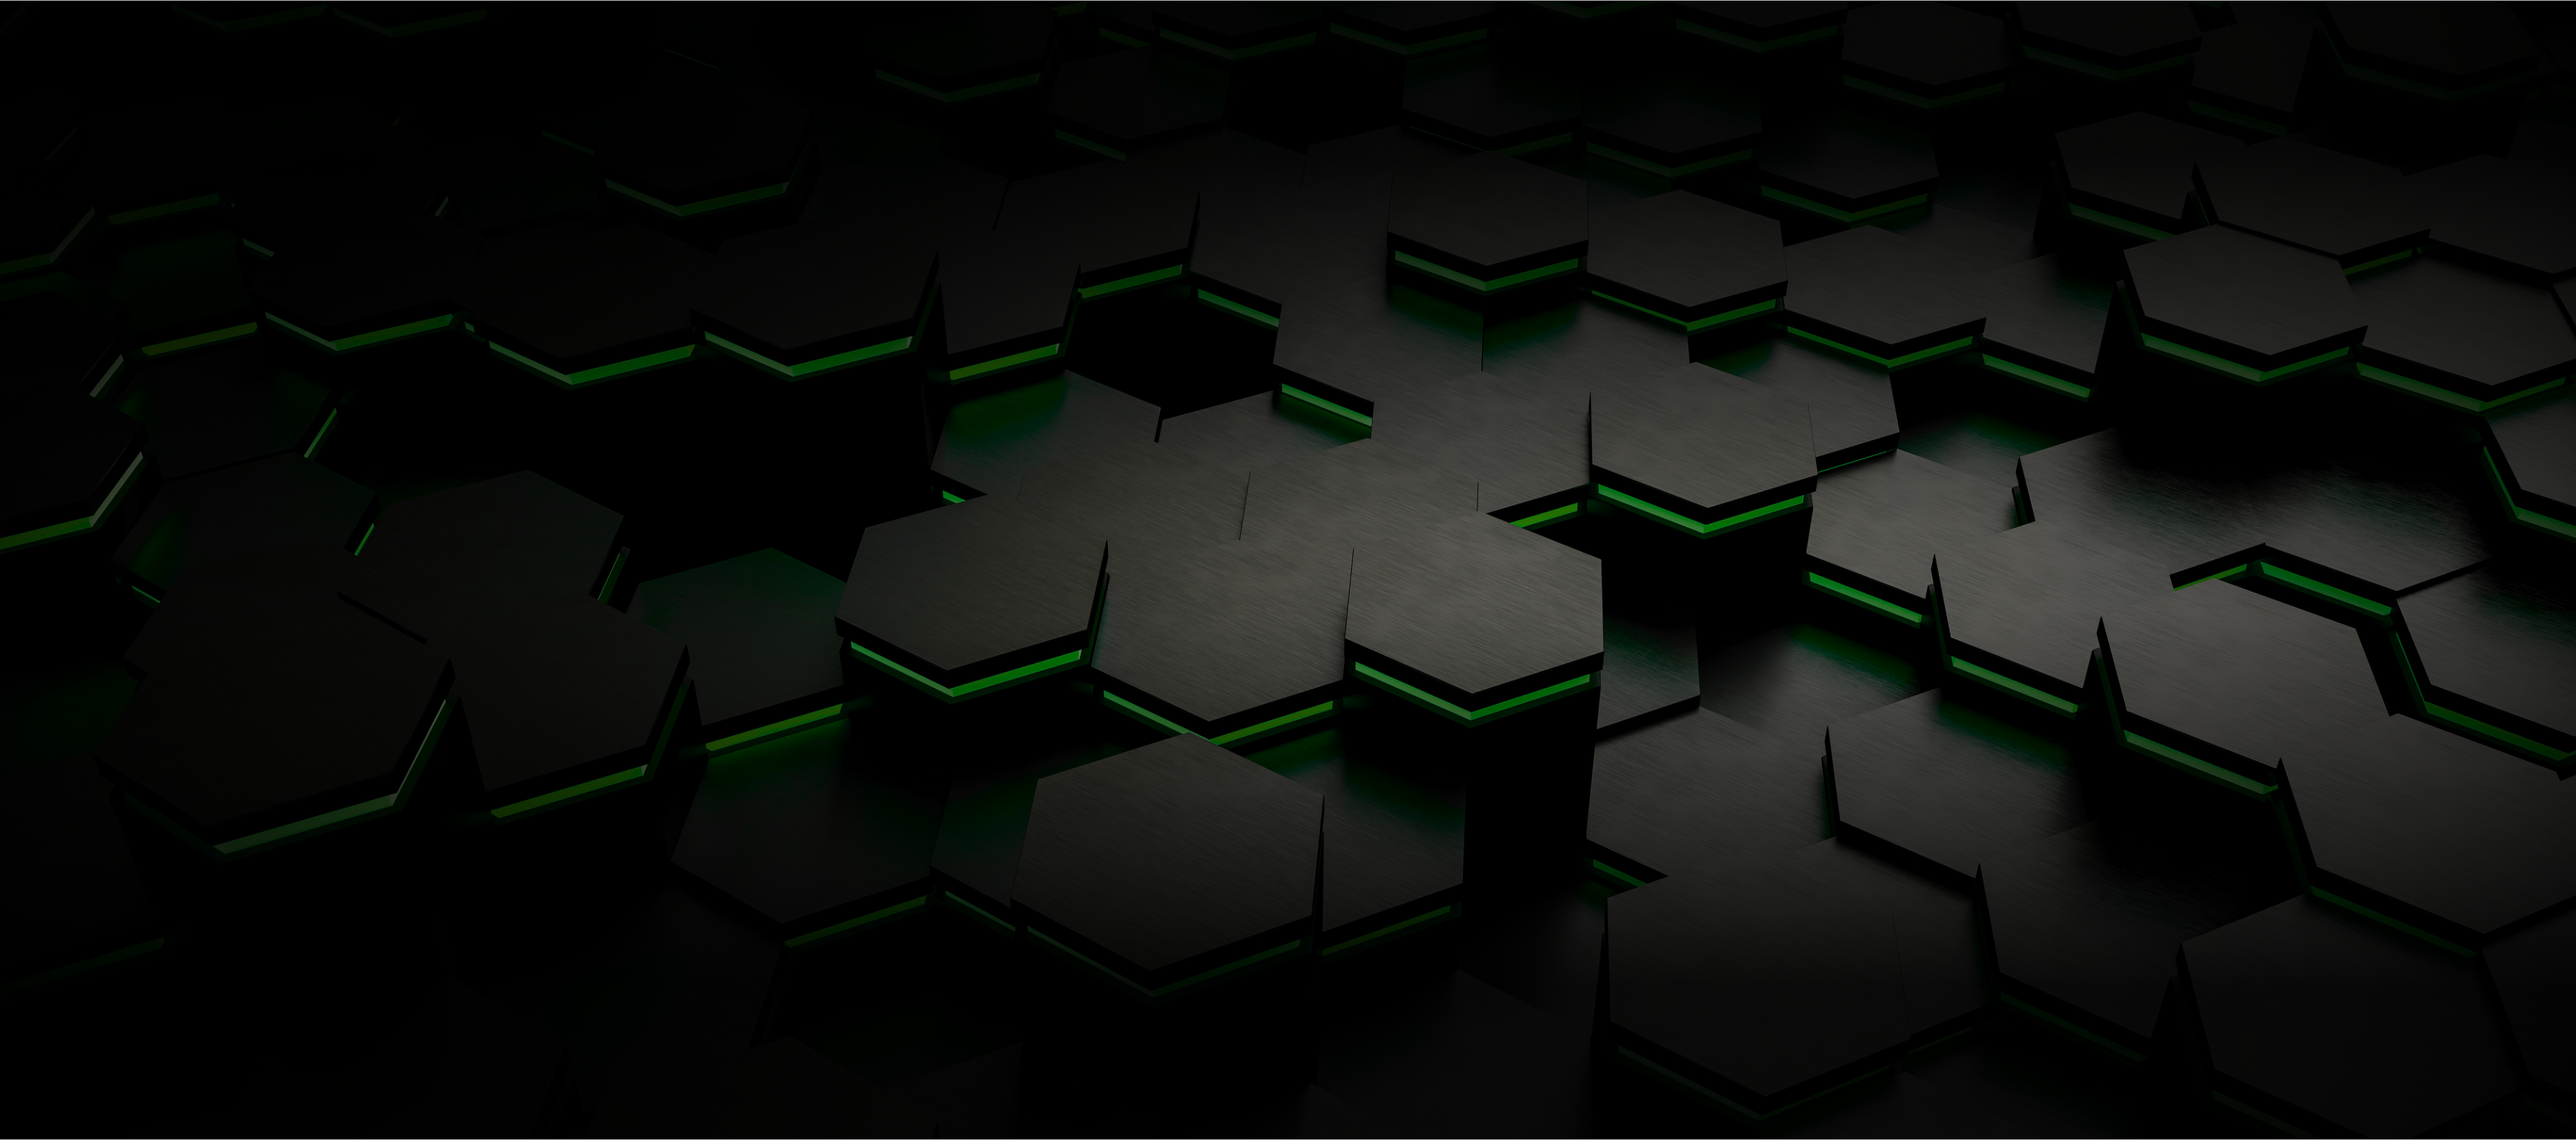
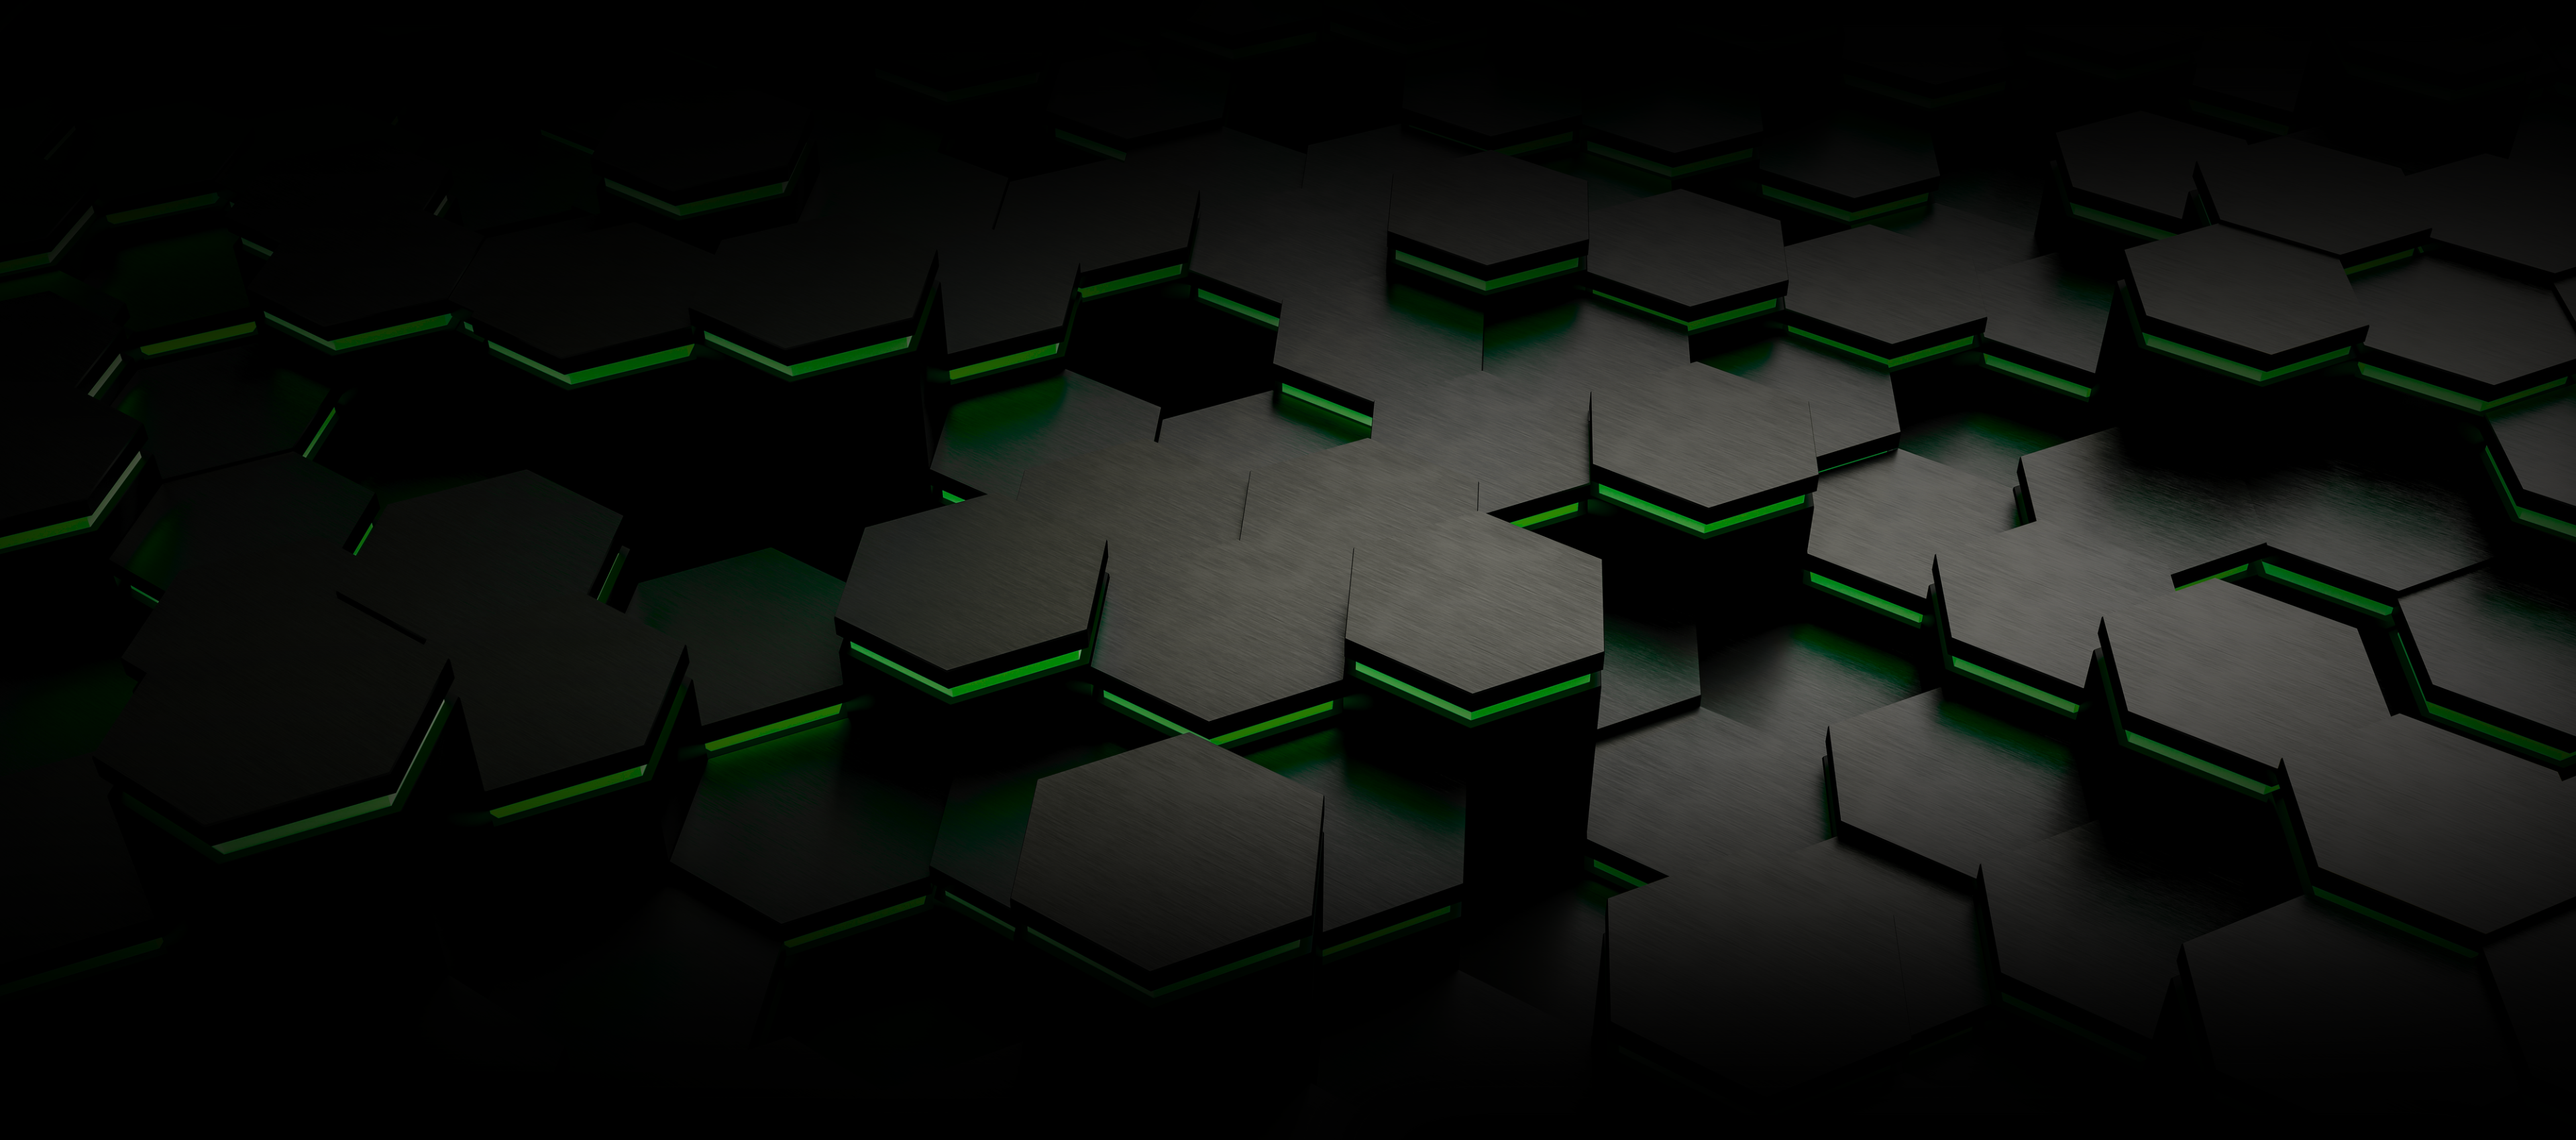
all backgrounds present, not in correct order carousels are all correct. Landing Reasons is the same as the features section it was removed the text was added to the testimonials header.

diff --git a/HEM-FrontEnd/src/LandingTestimonials.jsx b/HEM-FrontEnd/src/LandingTestimonials.jsx
@@ -2,18 +2,31 @@ import TestimonialCarousel from "./TestimonialCarousel";
 
 export default function LandingTestimonials() {
   return (
-    <div className="bg-TestimonialBackground bg-no-repeat bg-cover bg-center">
-      <div className="">
-        <div className="flex justify-center">
-          <TestimonialCarousel />
-        </div>
-        <div className="block">
-          Don&apos;t take it from us listen to our customers random reviews
-          length of time viewed determines the number of words and the average
-          reading time 238 wpm for nonfiction according to science direct asked
-          via google what is the average number of words per minute an american
-          can read
-        </div>
+    <div className="bg-reasonsBackground mt-[-1px] bg-no-repeat text-hemautoWhite bg-cover">
+      <div className="flex text-center items-center justify-center">
+        <h2 className="m-4 font-hemautoFontRoadRage text-9xl px-32">
+          EXPERIENCE THE<br></br>
+          <div className="m-4 max-h-[300px] px-10 py-10">
+            <img
+              type="xml/svg"
+              src="./src/assets/Images/Logo/HEM-Auto-Logo-Lime-Green.svg"
+            ></img>
+          </div>
+          <br></br>DIFFERENCE.
+        </h2>
+      </div>
+      <div className="p-10 text-center font-hemautoFontPlay font-extrabold">
+        <h3 className="text-7xl">BUT DON&apos;T TAKE IT FROM US</h3>
+        <h3 className="text-4xl">HERE&apos;S WHAT OUR CUSTOMERS HAVE TO SAY</h3>
+      </div>
+      <div className="flex justify-center h-[750px]">
+        <TestimonialCarousel />
+      </div>
+      <div className="block">
+        Don&apos;t take it from us listen to our customers random reviews length
+        of time viewed determines the number of words and the average reading
+        time 238 wpm for nonfiction according to science direct asked via google
+        what is the average number of words per minute an american can read
       </div>
     </div>
   );

diff --git a/HEM-FrontEnd/src/OffersCarousel.jsx b/HEM-FrontEnd/src/OffersCarousel.jsx
@@ -1,22 +1,26 @@
 import React from "react";
 import "react-responsive-carousel/lib/styles/carousel.min.css"; // requires a loader
 import { Carousel } from "react-responsive-carousel";
-class TestimonialCarousel extends React.Component {
+class OffersCarousel extends React.Component {
   render() {
     return (
-      <div className="w-[60%]">
+      <div>
         <Carousel
           stopOnHover
           autoPlay
-          interval="5000"
+          interval="3000"
           transitionTime="1500"
           infiniteLoop
           axis="horizontal"
           showStatus={false}
           showThumbs={false}
         >
-          <div className="block pt-96 mx-[20%] justify-center y">
-            <p className="inline-block w-[100%] text-justify text-3xl bg-hemautoTrueBlack/50 px-6 py-8" alt="" >HEM Automotive never disappoints. They repair in a timely manner with a fair price. Anytime I&apos;ve taken my vehicle there, Jason and crew have been upfront about the cost and kept me up to date with progress. Took my vehicle there to fix what I thought was a suspension type issue; HEM figured out it was the transmission b4 any work was done. We were able to get warranty work taken care of because of their attention to detail.</p>
+          <div className="basis-1/2 h-[500px]">
+            <img
+              className="block h-[100%] w-[100%]"
+              src="/src/assets/Images/Icons/CarFaxIc.png"
+              alt=""
+            />
           </div>
           <img
             src="https:///images.unsplash.com/photo-1656248948968164012-119304af0c69?ixlib=rb-1.2.1&ixid=MnwxMjA3fDB8MHxwaG90by1wYWdlfHx8fGVufDB8fHx8&auto=format&fit=crop&w=1112&q=80"
@@ -39,4 +43,4 @@ class TestimonialCarousel extends React.Component {
     );
   }
 }
-export default TestimonialCarousel;
+export default OffersCarousel;

diff --git a/HEM-FrontEnd/index.html b/HEM-FrontEnd/index.html
@@ -13,9 +13,9 @@
   <body>
     <div id="root" class="bg-serviceBackground bg-no-repeat text-hemautoWhite bg-cover bg-top"></div>
     <div id="ShoutoutsServices" class="text-hemautoWhite"></div>
-    <div id="middleroot" class="text-hemautoWhite bg-mainmiddleBackground bg-cover bg-no-repeat my-[-1px]"></div>
+    <div id="middleroot" class="text-hemautoWhite bg-mainmiddleBackground bg-no-repeat bg-cover bg-top my-[-1px]"></div>
     <div id="randomvehicle"></div>
-    <div id="root2" class="bg-reasonsBackground mt-[-1px] bg-no-repeat text-hemautoWhite bg-contain"></div>
+    <div id="root2" class=""></div>
     <script type="module" src="/src/main.jsx"></script>
     <script type="module" src="/src/ShoutoutsServices.jsx"></script>
     <script type="module" src="/src/mainmiddle.jsx"></script>
@@ -23,5 +23,6 @@
     <script type="module" src="/src/main2.jsx"></script>
     <script type="module" src="/src/Carousel.jsx"></script>
     <script type="module" src="/src/TestimonialCarousel.jsx"></script>
+    <script type="module" src="/src/OffersCarousel.jsx"></script>
   </body>
 </html>

diff --git a/HEM-FrontEnd/src/LandingReasons.jsx b/HEM-FrontEnd/src/LandingReasons.jsx
@@ -1,6 +1,6 @@
 export default function LandingReasons() {
   return (
-    <div>
+    <div className="h-[1400px]">
       <div className="flex text-center items-center justify-center">
         <h2 className="m-4 font-hemautoFontRoadRage text-9xl px-32">
           EXPERIENCE<br></br>THE<br></br>DIFFERENCE<br></br>WITH
@@ -11,10 +11,6 @@ export default function LandingReasons() {
             src="./src/assets/Images/Logo/HEM-Auto-Logo-Lime-Green.svg"
           ></img>
         </div>
-      </div>
-      <div className="p-10 text-center font-hemautoFontPlay font-extrabold">
-        <h3 className="text-7xl">BUT DON'T TAKE IT FROM US</h3>
-        <h3 className="text-4xl">HERE'S WHAT OUR CUSTOMERS HAVE TO SAY</h3>
       </div>
         full-service vehicle maintenance that
         won&apos;t break you down quality is warranty, carfax car care service

diff --git a/HEM-FrontEnd/src/OnlineOffers.jsx b/HEM-FrontEnd/src/OnlineOffers.jsx
@@ -1,13 +1,10 @@
-import { Carousel } from "flowbite-react";
-
+import OffersCarousel from "./OffersCarousel";
 export default function OnlineOffers() {
-  return (
-    <div className="p-10 w-full h-[1080px]">
-      <Carousel pauseOnHover>
-        <img className="ease-in-out" src="https://flowbite.com/docs/images/carousel/carousel-1.svg" alt="..." ></img>
-        <img className="ease-in-out" src="https://flowbite.com/docs/images/carousel/carousel-2.svg" alt="..." ></img>
-        <img className="ease-in-out" src="https://flowbite.com/docs/images/carousel/carousel-3.svg" alt="..." ></img>
-      </Carousel>
-    </div>
-  )
+    return (
+      <div className="bg-OnlineOffers bg-cover bg-top h-[1700px]">
+        <div>
+          <OffersCarousel />
+        </div>
+      </div>
+    );
 }

diff --git a/HEM-FrontEnd/src/main2.jsx b/HEM-FrontEnd/src/main2.jsx
@@ -1,14 +1,14 @@
 import React from 'react'
 import ReactDOM from 'react-dom/client'
 import './index.css'
-import LandingReasons from './LandingReasons.jsx'
 import LandingTestimonials from './LandingTestimonials.jsx'
 import OnlineOffers from './OnlineOffers.jsx'
+import Footer from './Footer.jsx'
 
 ReactDOM.createRoot(document.getElementById("root2")).render(
   <React.StrictMode>
-    <LandingReasons />
     <LandingTestimonials />
     <OnlineOffers />
+    <Footer />
   </React.StrictMode>
 );

diff --git a/HEM-FrontEnd/src/LandingExperience.jsx b/HEM-FrontEnd/src/LandingExperience.jsx
@@ -5,7 +5,7 @@ export default function LandingExperience() {
   const [RetailIsHovering, RetailHoverProps] = useHover()
   const [DealershipIsHovering, DealershipHoverProps] = useHover()
   return (
-    <div className="">
+    <div className="mt-[-2px]">
       <div className="flex">
         <h1 className="green-text-shadow text-center justify-center font-extrabold font-hemautoFontUrbanist text-6xl text-hemautoLightGray">
           AUTO REPAIR FOR

diff --git a/HEM-FrontEnd/tailwind.config.js b/HEM-FrontEnd/tailwind.config.js
@@ -60,6 +60,10 @@ export default {
           "url(./src/assets/Images/Background/mainmiddleBackground.png)",
         HexagonCarbonFiber:
           "url(./src/assets/Images/Background/HexagonCarbonFiber.png)",
+        OnlineOffers:
+          "url(./src/assets/Images/Background/OnlineOffers.png)",
+        FooterBackground:
+          "url(./src/assets/Images/Background/Footer.png)",
       },
     },
     variants: {

diff --git a/HEM-FrontEnd/src/Footer.jsx b/HEM-FrontEnd/src/Footer.jsx
@@ -1,0 +1,6 @@
+export default function Footer() {
+  return (
+    <div className="bg-FooterBackground bg-cover bg-top h-[550px] mt-[-2px]">
+    </div>
+  );
+}
